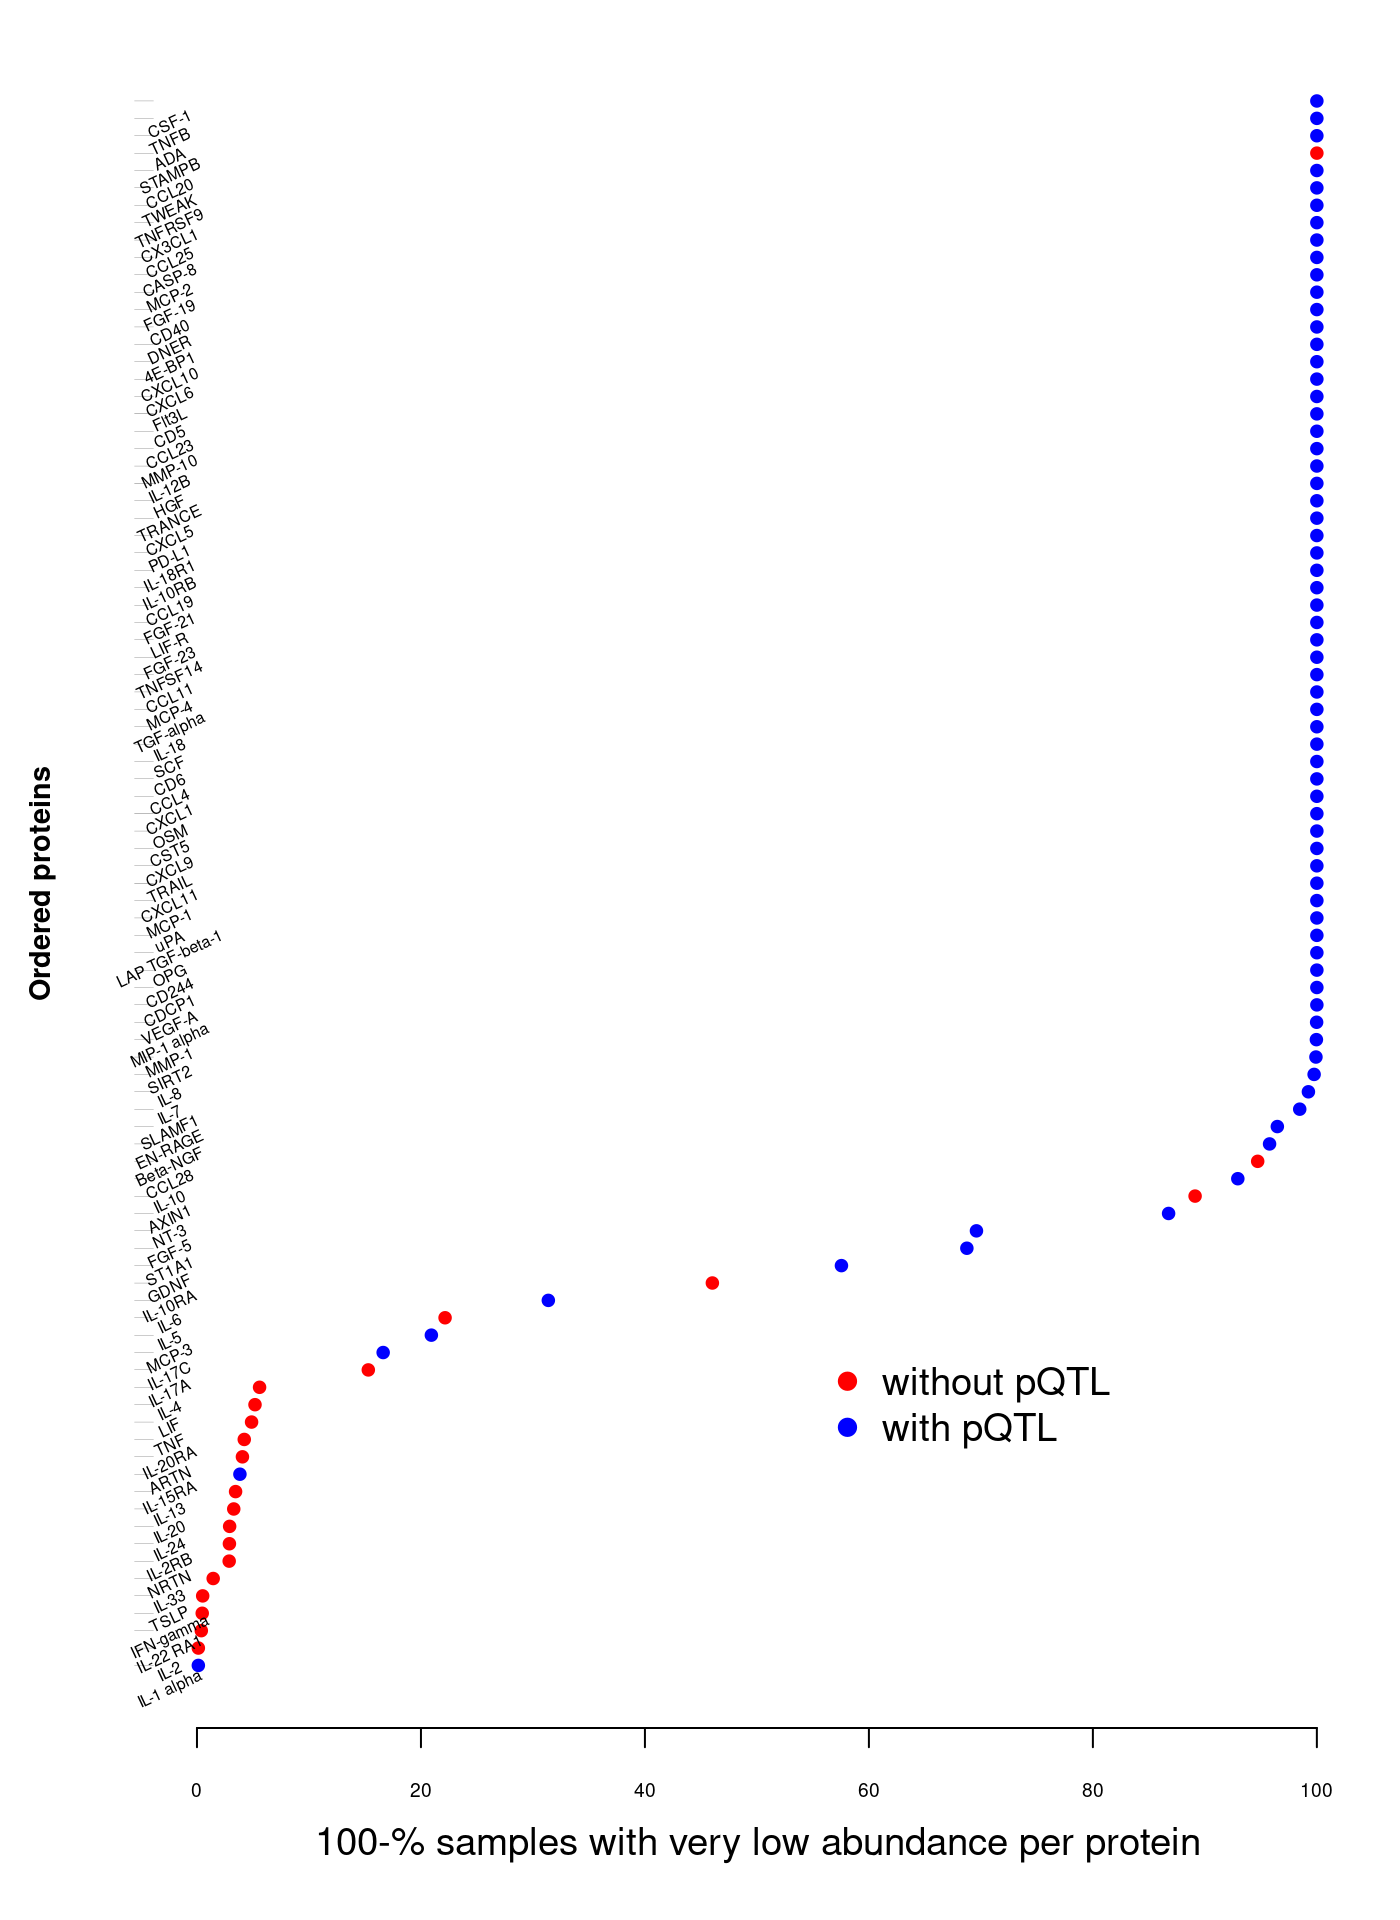
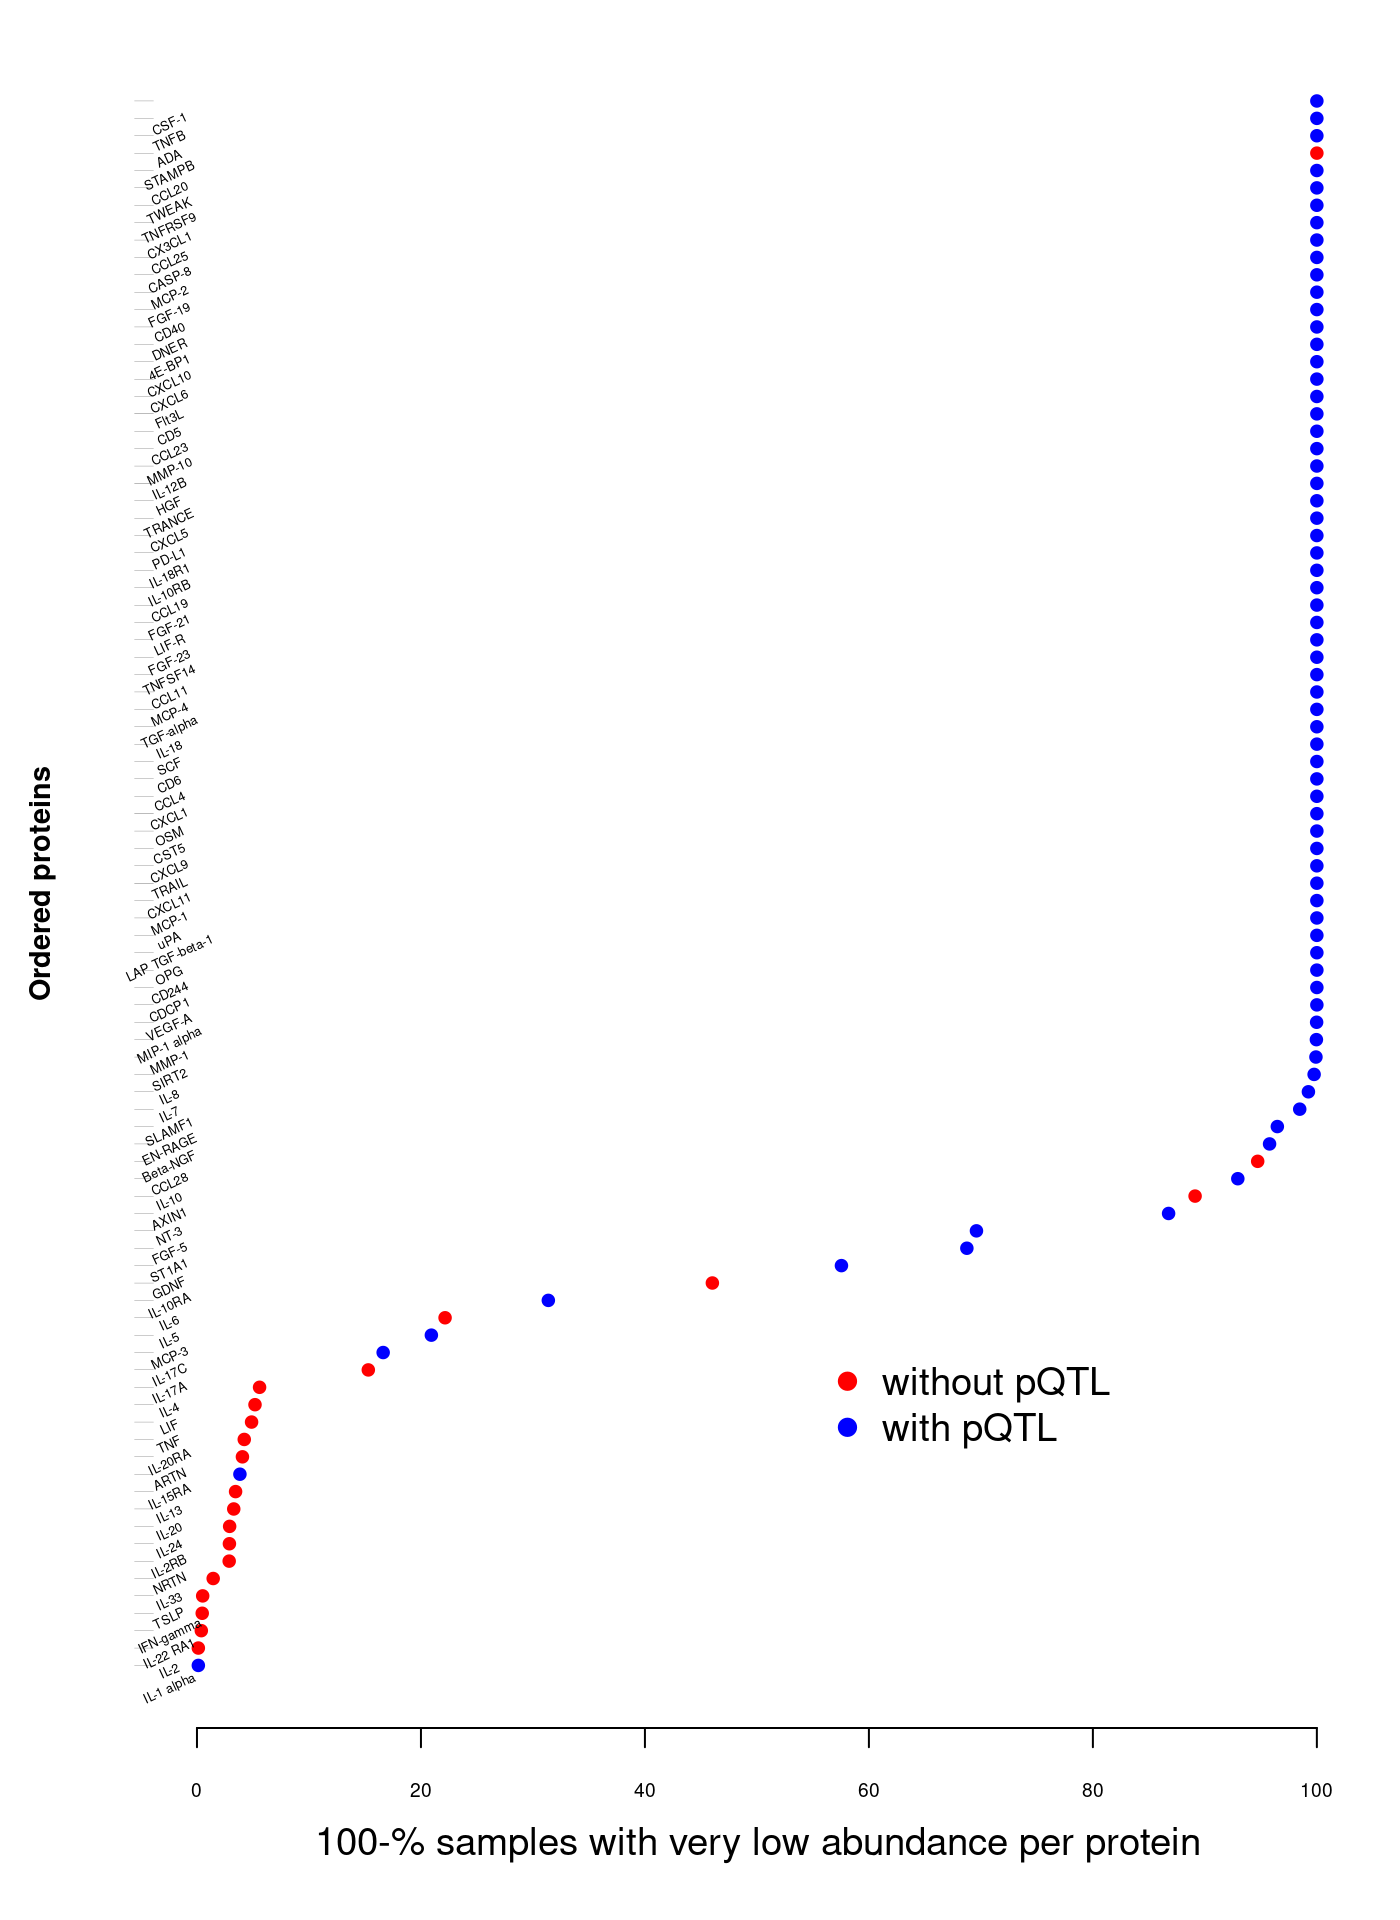
docs

Changed region(s): [[0.0921, 0.0625, 0.1536, 0.875]]

diff --git a/docs/articles/es.html b/docs/articles/es.html
@@ -617,7 +617,7 @@ and therefore pQTL detection as is shown with a real example.</p>
 <span><span class="fu"><a href="https://rdrr.io/r/graphics/plot.default.html" class="external-link">plot</a></span><span class="op">(</span><span class="fl">100</span><span class="op">-</span><span class="va">pc.belowLOD.new</span>,<span class="va">ytick</span>,cex<span class="op">=</span><span class="fl">0.8</span>,pch<span class="op">=</span><span class="fl">19</span>,col<span class="op">=</span><span class="va">pQTL</span>,axes<span class="op">=</span><span class="cn">FALSE</span>, xlab<span class="op">=</span><span class="st">""</span>, ylab<span class="op">=</span><span class="st">""</span>, cex.lab<span class="op">=</span><span class="fl">0.8</span><span class="op">)</span></span>
 <span><span class="fu"><a href="https://rdrr.io/r/graphics/axis.html" class="external-link">axis</a></span><span class="op">(</span><span class="fl">1</span>, cex.axis<span class="op">=</span><span class="fl">0.6</span><span class="op">)</span></span>
 <span><span class="fu"><a href="https://rdrr.io/r/graphics/axis.html" class="external-link">axis</a></span><span class="op">(</span><span class="fl">2</span>, at<span class="op">=</span><span class="va">ytick</span>, labels <span class="op">=</span> <span class="cn">FALSE</span>, lwd.tick<span class="op">=</span><span class="fl">0.1</span>, lwd<span class="op">=</span><span class="fl">0</span><span class="op">)</span></span>
-<span><span class="fu"><a href="https://rdrr.io/r/graphics/text.html" class="external-link">text</a></span><span class="op">(</span>y<span class="op">=</span><span class="va">ytick</span>, <span class="fu"><a href="https://rdrr.io/r/graphics/par.html" class="external-link">par</a></span><span class="op">(</span><span class="st">"usr"</span><span class="op">)</span><span class="op">[</span><span class="fl">3</span><span class="op">]</span>,labels <span class="op">=</span> <span class="va">prot</span>, srt <span class="op">=</span> <span class="fl">25</span>, pos <span class="op">=</span> <span class="fl">1</span>, xpd <span class="op">=</span> <span class="cn">TRUE</span>, cex<span class="op">=</span><span class="fl">0.5</span><span class="op">)</span></span>
+<span><span class="fu"><a href="https://rdrr.io/r/graphics/text.html" class="external-link">text</a></span><span class="op">(</span>y<span class="op">=</span><span class="va">ytick</span>, <span class="fu"><a href="https://rdrr.io/r/graphics/par.html" class="external-link">par</a></span><span class="op">(</span><span class="st">"usr"</span><span class="op">)</span><span class="op">[</span><span class="fl">3</span><span class="op">]</span>,labels <span class="op">=</span> <span class="va">prot</span>, srt <span class="op">=</span> <span class="fl">25</span>, pos <span class="op">=</span> <span class="fl">1</span>, xpd <span class="op">=</span> <span class="cn">TRUE</span>, cex<span class="op">=</span><span class="fl">0.4</span><span class="op">)</span></span>
 <span><span class="fu"><a href="https://rdrr.io/r/graphics/mtext.html" class="external-link">mtext</a></span><span class="op">(</span><span class="st">"100-% samples with very low abundance per protein"</span>,side<span class="op">=</span><span class="fl">1</span>,line<span class="op">=</span><span class="fl">2.5</span>,cex<span class="op">=</span><span class="fl">1.2</span><span class="op">)</span></span>
 <span><span class="fu"><a href="https://rdrr.io/r/graphics/mtext.html" class="external-link">mtext</a></span><span class="op">(</span><span class="st">"Ordered proteins"</span>,side<span class="op">=</span><span class="fl">2</span>,line<span class="op">=</span><span class="fl">2.5</span>,cex<span class="op">=</span><span class="fl">0.9</span>,font<span class="op">=</span><span class="fl">2</span><span class="op">)</span></span>
 <span><span class="fu"><a href="https://rdrr.io/r/graphics/legend.html" class="external-link">legend</a></span><span class="op">(</span>x<span class="op">=</span><span class="fl">55</span>,y<span class="op">=</span><span class="fl">20</span>,<span class="fu"><a href="https://rdrr.io/r/base/c.html" class="external-link">c</a></span><span class="op">(</span><span class="st">"without pQTL"</span>,<span class="st">"with pQTL"</span><span class="op">)</span>,box.lwd<span class="op">=</span><span class="fl">0</span>,cex<span class="op">=</span><span class="fl">1.2</span>,col<span class="op">=</span><span class="fu"><a href="https://rdrr.io/r/base/c.html" class="external-link">c</a></span><span class="op">(</span><span class="st">"red"</span>,<span class="st">"blue"</span><span class="op">)</span>,pch<span class="op">=</span><span class="fl">19</span><span class="op">)</span></span></code></pre></div>
